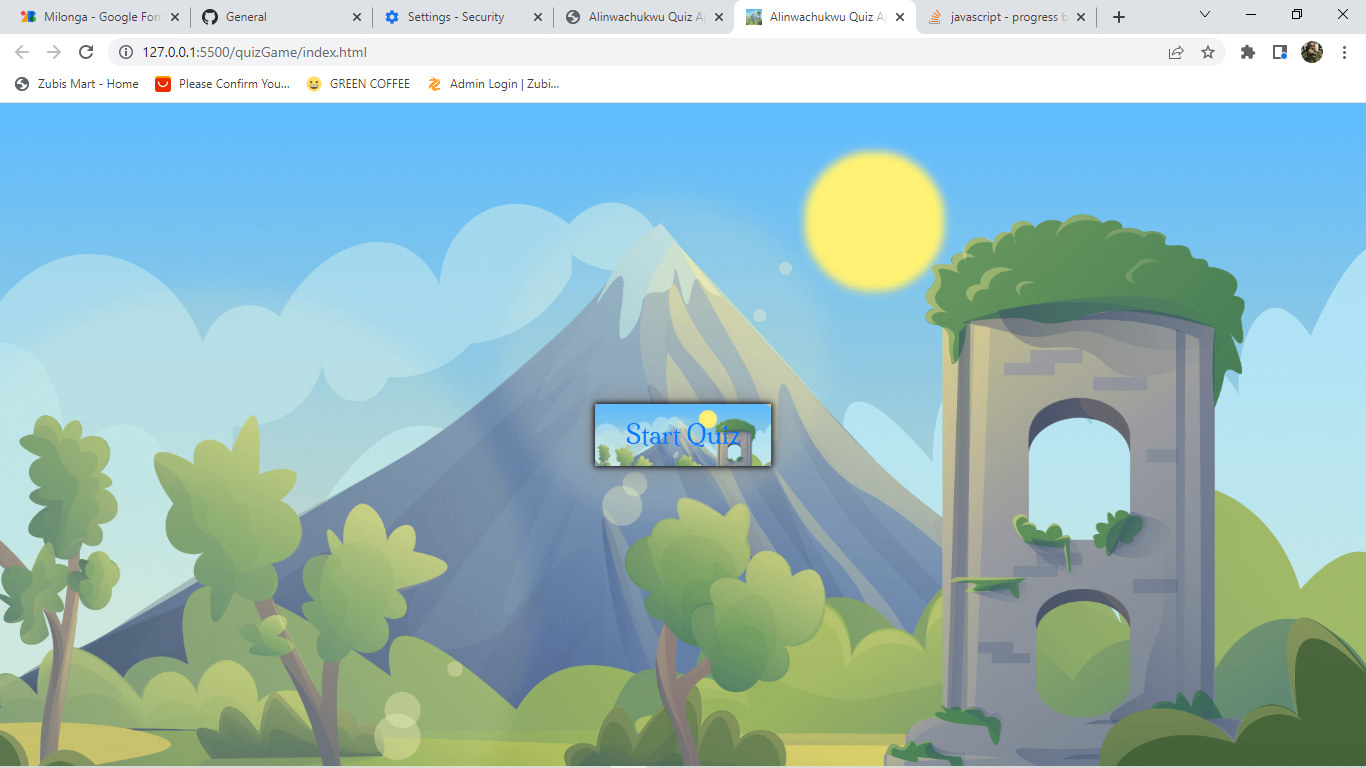
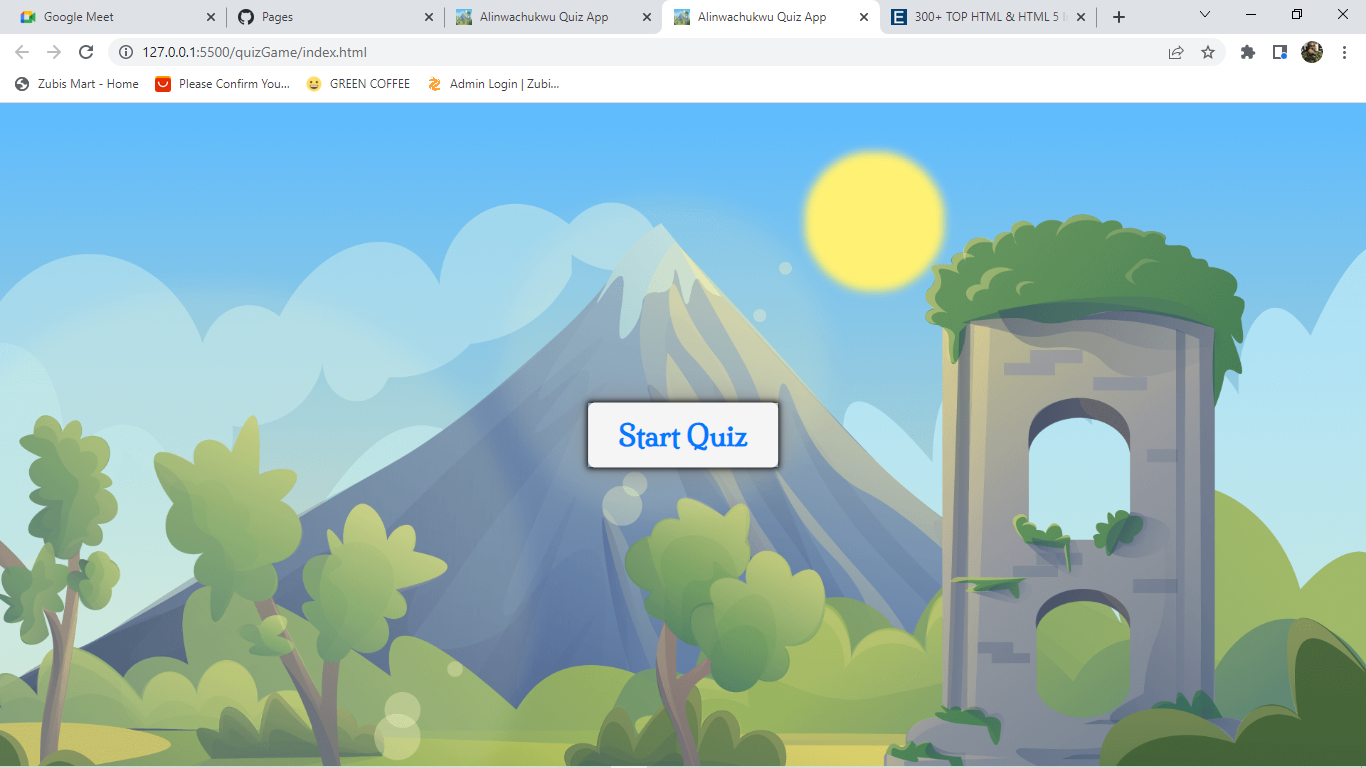
Modified questions.js style.css

Changed region(s): [[0.3997, 0.5, 0.5842, 0.625], [0.2767, 0.0, 0.7687, 0.0625], [0.0, 0.0, 0.2152, 0.0312]]

diff --git a/questions.js b/questions.js
@@ -382,13 +382,13 @@ let questions = [
     
     {
         numb: 31,
-        question: "How to insert a copyright symbol on a browser page?",
-        answer:  "You can insert a copyright symbol by using &copy; or &#169; in an HTML file.",
+        question: "What is DOCTYPE?",
+        answer:  "This is used to specify the version of HTML used in the given document.",
         options: [
-            "It is impossible.",
+            "It is what doctors use on surgery.",
             "Just go to W3schools and ask Jolah.",
-            "You can insert a copyright symbol by using &copy; or &#169; in an HTML file.",
-            "Use of tailwind CSS styles and semantics of wind."
+            "This is used to specify the version of HTML used in the given document.",
+            "It is a type of document used by doctors in advanced medicine"
     ]
     },
 

diff --git a/style.css b/style.css
@@ -1,12 +1,6 @@
 @import url('https://fonts.googleapis.com/css2?family=Milonga&display=swap');
 
 
-:root{
-    
---color1: #b59393ef;
---color2: #787dd6;
-}
-
 *{
     margin: 0;
     padding: 0;
@@ -79,14 +73,14 @@ body{
 /* Start Quiz Button */
 
 .start_btn button{
-    font-size: 25px;
-    font-weight: 500;
+    font-size: 28px;
+    font-weight: 600;
     color: #007bff;
     padding: 15px 30px;
     outline: none;
     border: none;
     border-radius: 7px;
-    background: url(./images/fu.png);
+    background: whitesmoke;
     background-size: cover;
     cursor: pointer;
 }
